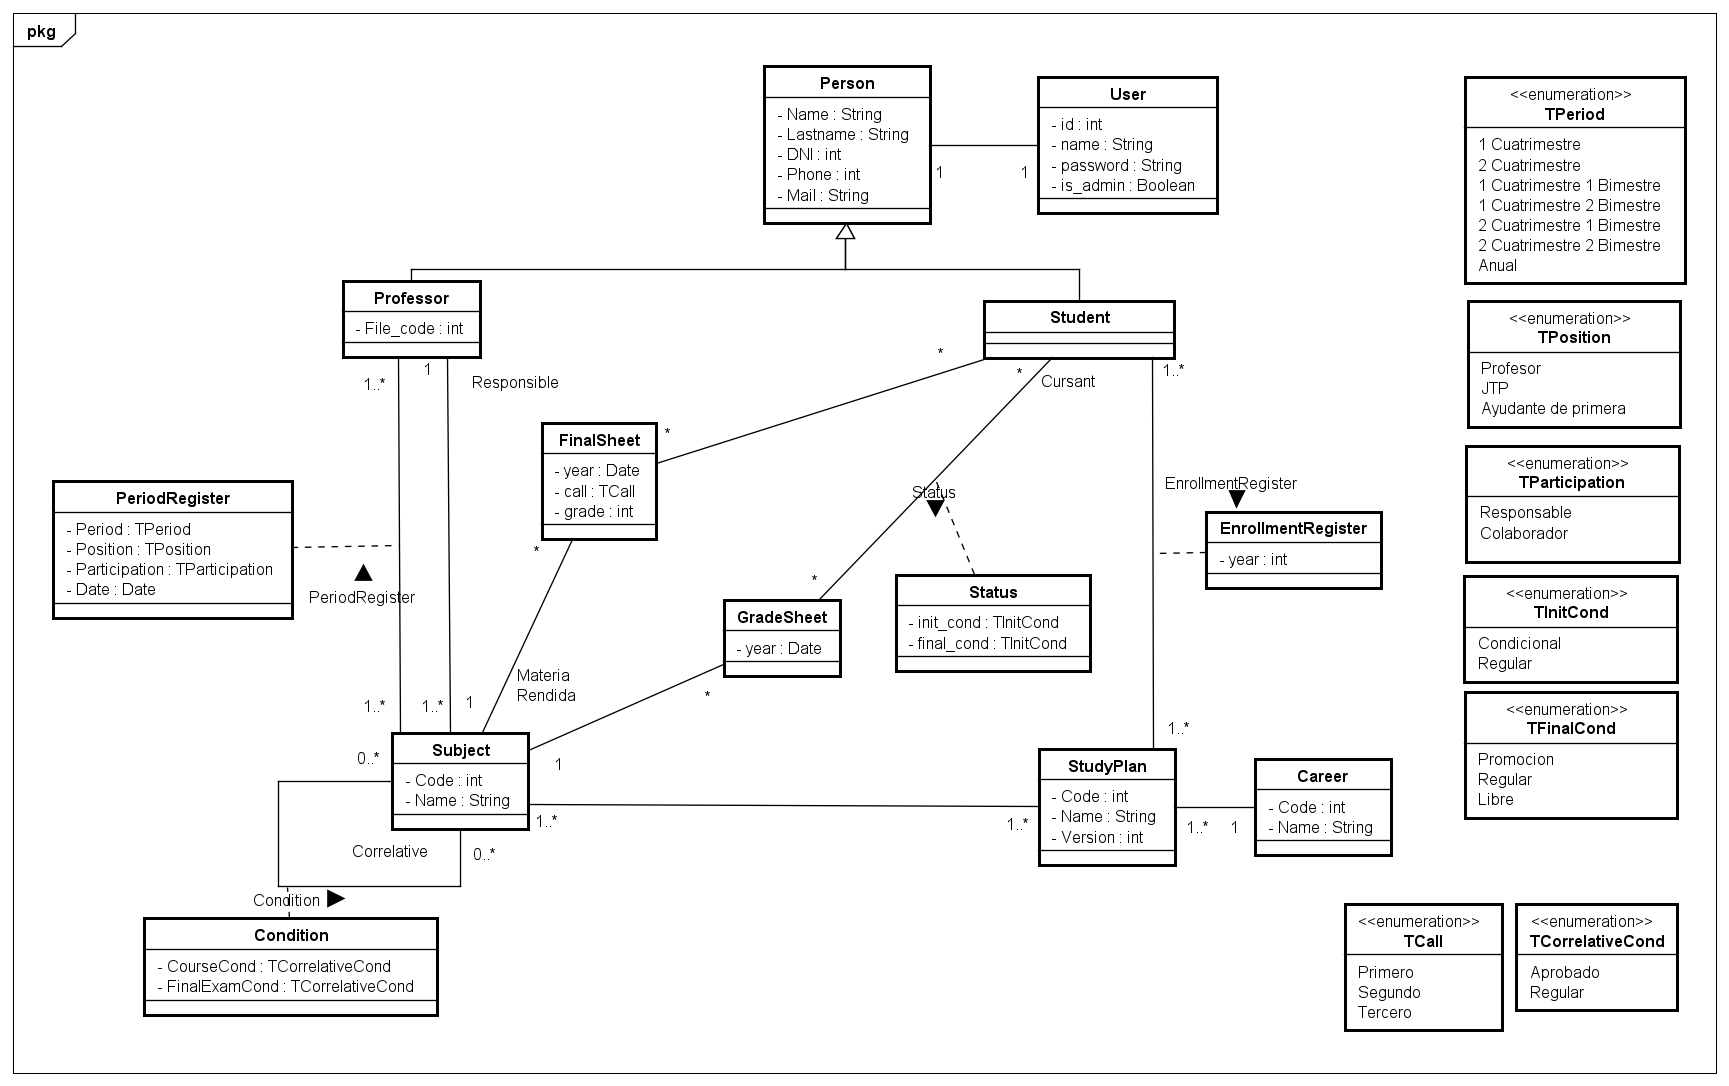
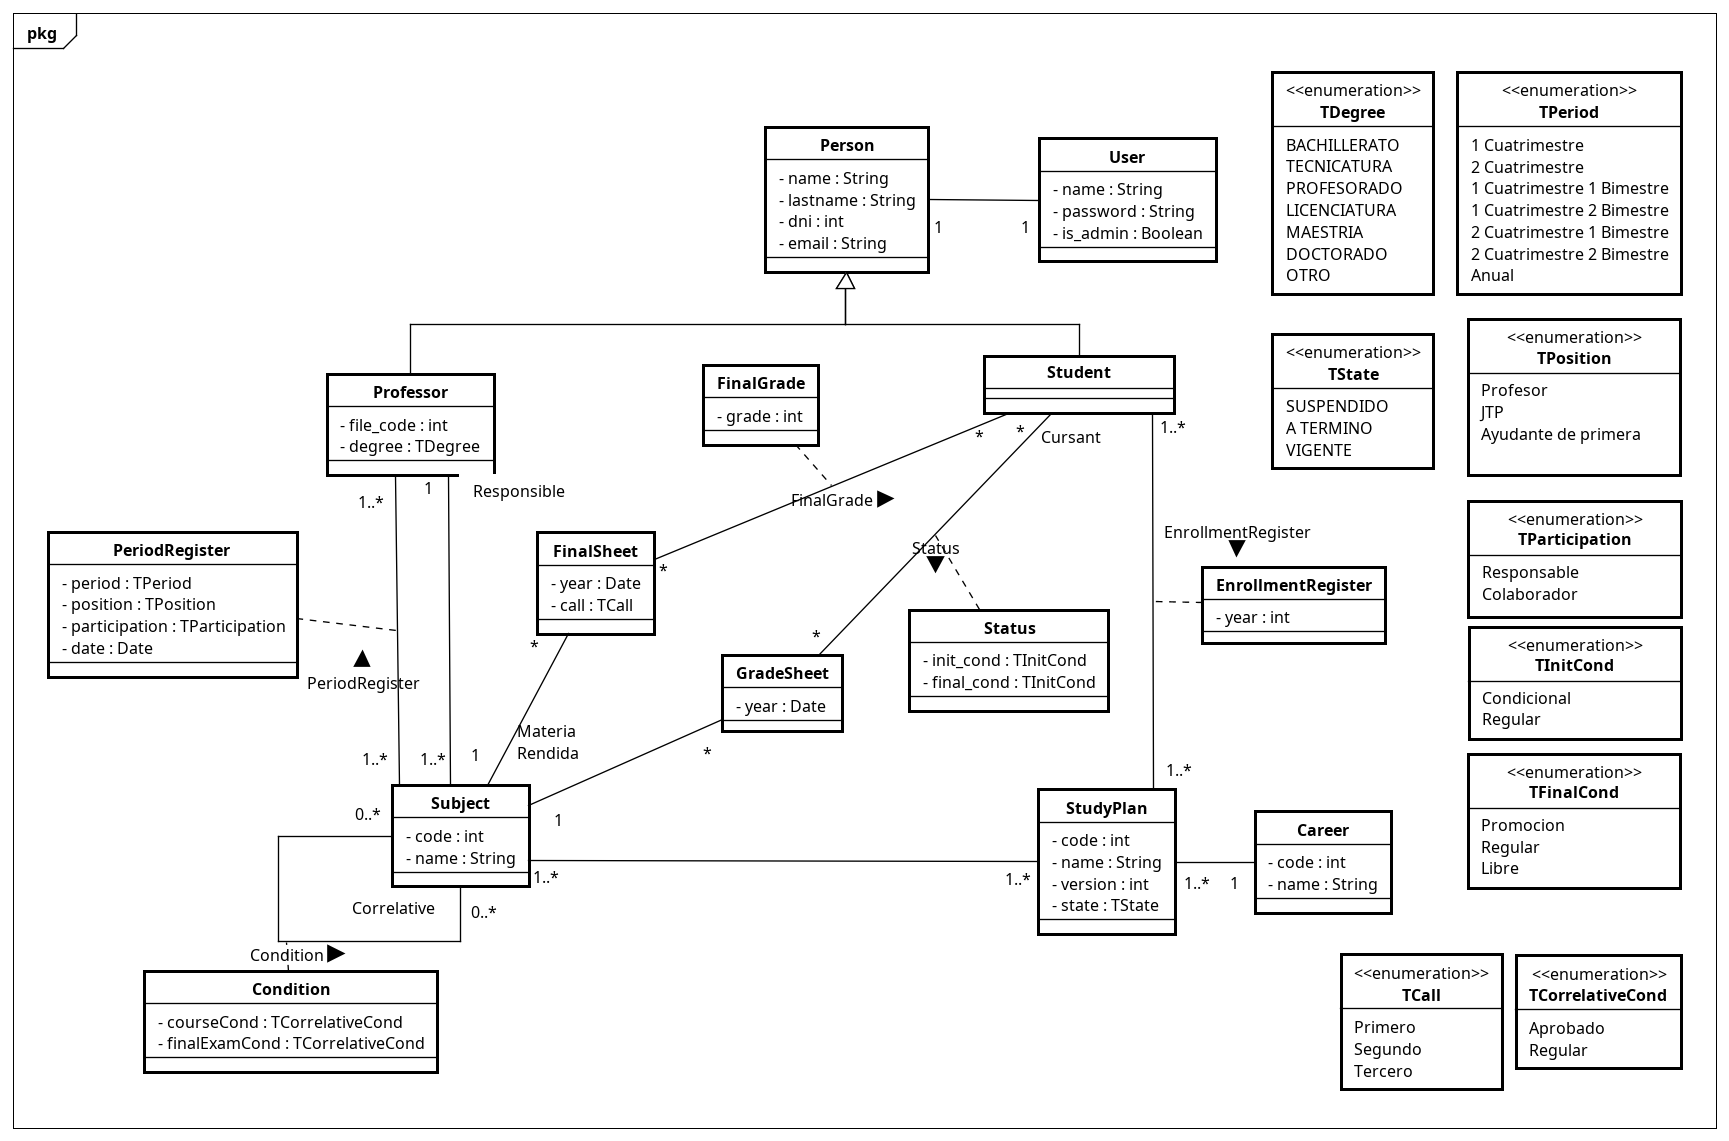
Modificaciones en documentacion y scheme

diff --git a/src/main/java/com/is1/proyecto/models/Plan.java b/src/main/java/com/is1/proyecto/models/Plan.java
@@ -1,6 +1,8 @@
 
 package com.is1.proyecto.models;                                               // Controlar
 
+import java.util.List;
+
 import org.javalite.activejdbc.Model;
 import org.javalite.activejdbc.annotations.BelongsTo;
 import org.javalite.activejdbc.annotations.IdName;
@@ -16,5 +18,9 @@ public class Plan extends Model {
         String careerName = (c != null) ? c.getString("name"):"Carrera desconocida";
         return careerName + " (Versión " + getString("version") + ")";
     
+    }
+
+    public List<Subject> getSubjects() {
+        return this.getAll(Subject.class);
     }
 }

diff --git a/documentacion/decisiones_diseño.md b/documentacion/decisiones_diseño.md
@@ -1,0 +1,26 @@
+### Decisiones de Diseño
+
+**1. Sistema de Actas y Registros Académicos**
+Para mantener un historial claro y escalable del progreso de los alumnos, se dividió el registro en tres entidades principales:
+
+- **`GradeSheet` (Acta de Cursado):** Representa el acta general de una materia para un año lectivo específico. 
+Actúa como cabecera para agrupar el historial de cursada de todos los estudiantes en ese período.
+- **`Status` (Estado de Inscripción):** Funciona como el detalle individual (o "renglón") dentro de un `GradeSheet`. 
+Registra la condición inicial y la condición final obtenida por cada estudiante al terminar la cursada.
+- **`FinalSheet` (Acta de Examen Final):** Representa el acta formal de un llamado a examen final particular, 
+donde se asientan las notas definitivas de los estudiantes que se presentaron a rendir.
+- **`FinalGrade` (Examen Final individual):** Representa la nota del examen final de un alumno particular 
+en FinalSheet específico.
+
+
+
+**2. Gestión de Correlatividades (Clase `Condicion`)**
+
+- **Decisión:** Se centralizó la lógica de requisitos en una única clase `Condicion`, 
+incorporando dos atributos distintos: uno que define el estado requerido de la correlativa 
+para **cursar** la materia actual, y otro para la condición requerida para **rendir** el final.
+- **Justificación:** Esta estructura responde al ciclo de vida lógico del régimen académico. 
+Si el sistema exige que una correlativa esté "Regular" o "Aprobada" para habilitar la cursada, 
+seguramente exigirá que esté "Aprobada" para habilitar el examen final. 
+Consolidar ambos atributos en la misma clase evita la redundancia de crear entidades separadas 
+para cursado y finales, simplificando las consultas SQL a la hora de validar inscripciones.